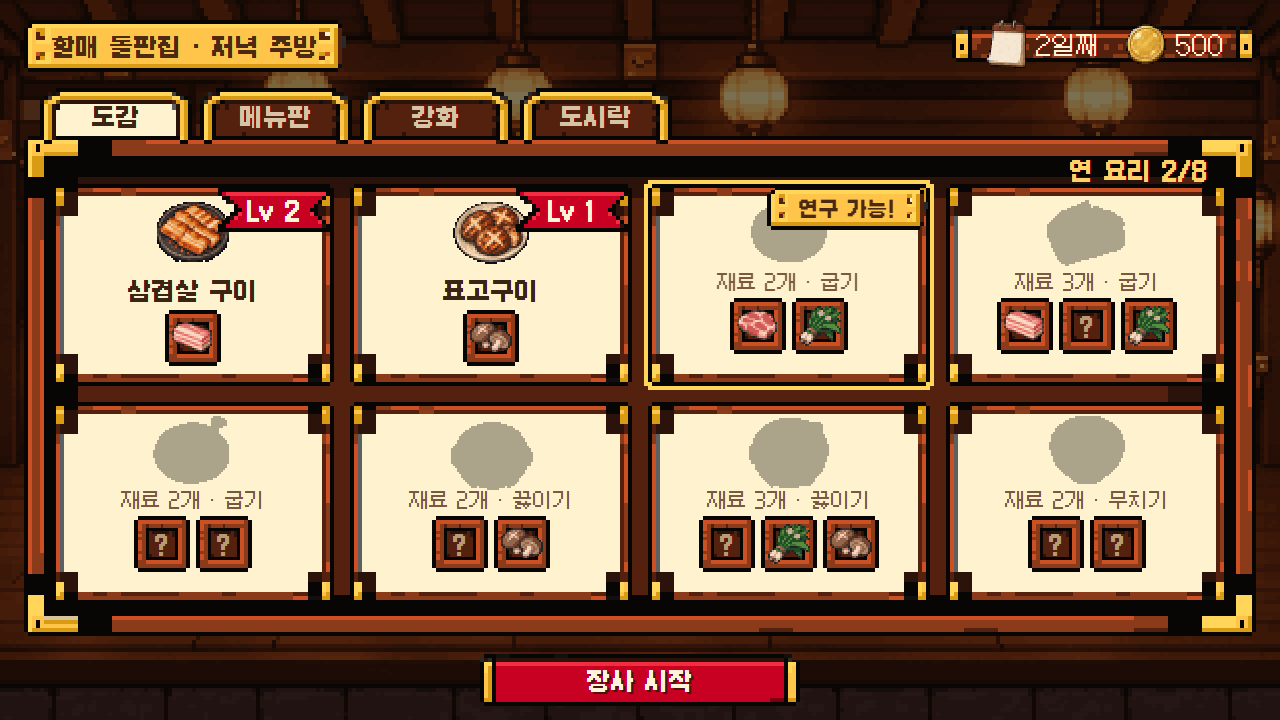
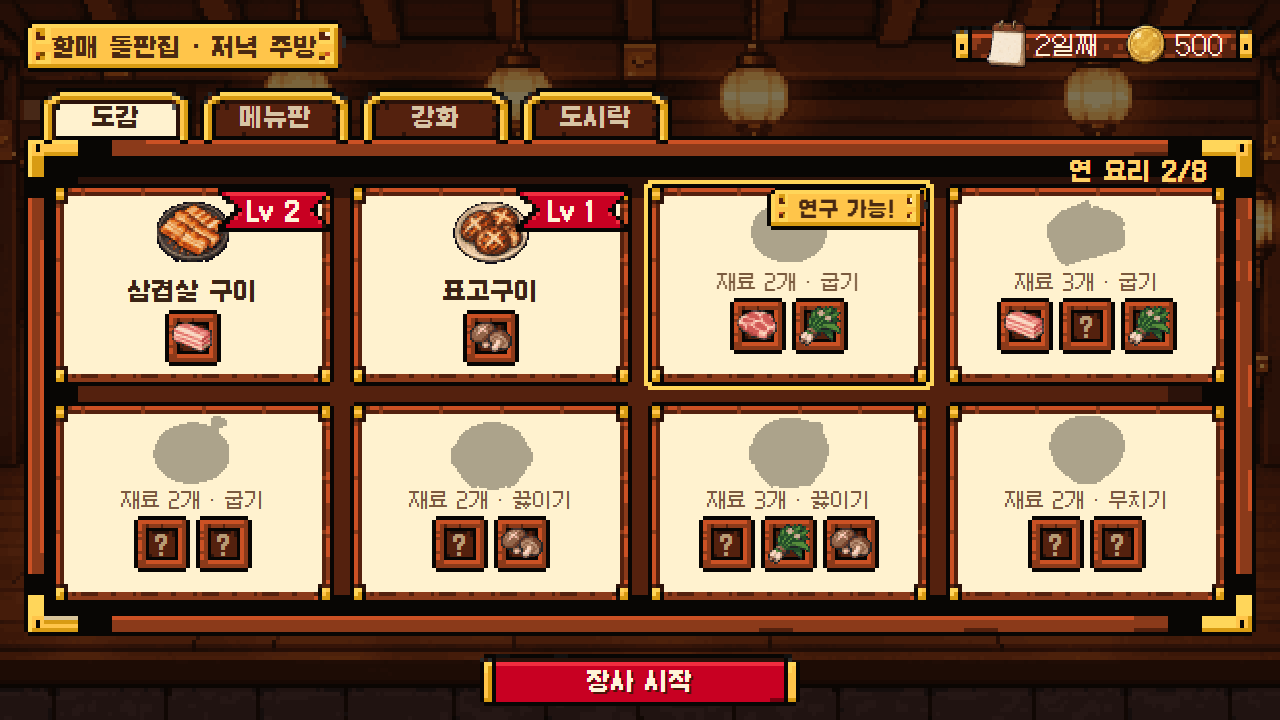
art: paper card without dark corner blocks or grey inner line; speech box without a tail

diff --git a/art-src/mockups/kitchen-cookbook-hint.html b/art-src/mockups/kitchen-cookbook-hint.html
@@ -37,7 +37,7 @@
   .count { position: absolute; right: 28px; top: -2px; color: var(--brass); font-weight: 700; }
   .grid { display: grid; grid-template-columns: repeat(4, 1fr); gap: 16px; margin-top: 20px; }
   .card { position: relative; height: 202px; display: flex; flex-direction: column; align-items: center; padding: 0 4px;
-    border-width: calc(3 * var(--k)); border-image: url("../ui-kit-pixel/out/card.png") 3 fill / calc(3 * var(--k)) stretch; }
+    border-width: calc(3 * var(--k)); border-image: url("../ui-kit-pixel/out/card.png") 5 fill / calc(5 * var(--k)) round; }
   .card > * { margin-top: -4px; }
   .dish { width: 84px; height: 80px; }
   .sil { filter: brightness(0); opacity: 0.32; }
@@ -64,14 +64,14 @@
   .ready { position: absolute; left: 50%; bottom: 14px; transform: translateX(-50%); width: 320px; height: 52px; font-size: 24px; }
   .lid { position: absolute; left: 6px; bottom: -6px; width: 240px; z-index: 3; }
   .say { position: absolute; left: 230px; bottom: 96px; width: 500px; min-height: 84px; padding: 6px 20px 2px 12px; z-index: 3;
-    border-width: calc(3 * var(--k)) calc(3 * var(--k)) calc(7 * var(--k)) calc(8 * var(--k));
-    border-image: url("../ui-kit-pixel/out/bubble.png") 3 3 7 8 fill / calc(3 * var(--k)) calc(3 * var(--k)) calc(7 * var(--k)) calc(8 * var(--k)) stretch; }
+    border-width: calc(3 * var(--k));
+    border-image: url("../ui-kit-pixel/out/bubble_plain.png") 3 fill / calc(3 * var(--k)) stretch; }
   .say span { display: block; margin: -6px 0 -8px; line-height: 1.6; }
 
   .shade { position: absolute; inset: 0; background: rgb(10 6 4 / 0.7); z-index: 5; }
   .win { position: absolute; left: 240px; top: 112px; width: 800px; height: 500px; z-index: 6; padding: 8px 16px;
     border-style: solid; border-color: transparent; border-width: calc(3 * var(--k));
-    border-image: url("../ui-kit-pixel/out/card.png") 3 fill / calc(3 * var(--k)) stretch; color: var(--ink); }
+    border-image: url("../ui-kit-pixel/out/card.png") 5 fill / calc(5 * var(--k)) round; color: var(--ink); }
   .win .x { position: absolute; right: -8px; top: -8px; width: 52px; height: 52px; display: flex; align-items: center; justify-content: center; font-weight: 700; color: #4a2a12;
     border-style: solid; border-color: transparent; border-width: calc(3 * var(--k)); border-image: url("../ui-kit-pixel/out/btn_small.png") 3 fill / calc(3 * var(--k)) stretch; }
   .win .x span { margin: -12px; }

diff --git a/art-src/mockups/kitchen-cookbook-research.html b/art-src/mockups/kitchen-cookbook-research.html
@@ -37,7 +37,7 @@
   .count { position: absolute; right: 28px; top: -2px; color: var(--brass); font-weight: 700; }
   .grid { display: grid; grid-template-columns: repeat(4, 1fr); gap: 16px; margin-top: 20px; }
   .card { position: relative; height: 202px; display: flex; flex-direction: column; align-items: center; padding: 0 4px;
-    border-width: calc(3 * var(--k)); border-image: url("../ui-kit-pixel/out/card.png") 3 fill / calc(3 * var(--k)) stretch; }
+    border-width: calc(3 * var(--k)); border-image: url("../ui-kit-pixel/out/card.png") 5 fill / calc(5 * var(--k)) round; }
   .card > * { margin-top: -4px; }
   .dish { width: 84px; height: 80px; }
   .sil { filter: brightness(0); opacity: 0.32; }
@@ -64,14 +64,14 @@
   .ready { position: absolute; left: 50%; bottom: 14px; transform: translateX(-50%); width: 320px; height: 52px; font-size: 24px; }
   .lid { position: absolute; left: 6px; bottom: -6px; width: 240px; z-index: 3; }
   .say { position: absolute; left: 230px; bottom: 96px; width: 500px; min-height: 84px; padding: 6px 20px 2px 12px; z-index: 3;
-    border-width: calc(3 * var(--k)) calc(3 * var(--k)) calc(7 * var(--k)) calc(8 * var(--k));
-    border-image: url("../ui-kit-pixel/out/bubble.png") 3 3 7 8 fill / calc(3 * var(--k)) calc(3 * var(--k)) calc(7 * var(--k)) calc(8 * var(--k)) stretch; }
+    border-width: calc(3 * var(--k));
+    border-image: url("../ui-kit-pixel/out/bubble_plain.png") 3 fill / calc(3 * var(--k)) stretch; }
   .say span { display: block; margin: -6px 0 -8px; line-height: 1.6; }
 
   .shade { position: absolute; inset: 0; background: rgb(10 6 4 / 0.7); z-index: 5; }
   .win { position: absolute; left: 240px; top: 112px; width: 800px; height: 500px; z-index: 6; padding: 8px 16px;
     border-style: solid; border-color: transparent; border-width: calc(3 * var(--k));
-    border-image: url("../ui-kit-pixel/out/card.png") 3 fill / calc(3 * var(--k)) stretch; color: var(--ink); }
+    border-image: url("../ui-kit-pixel/out/card.png") 5 fill / calc(5 * var(--k)) round; color: var(--ink); }
   .win .x { position: absolute; right: -8px; top: -8px; width: 52px; height: 52px; display: flex; align-items: center; justify-content: center; font-weight: 700; color: #4a2a12;
     border-style: solid; border-color: transparent; border-width: calc(3 * var(--k)); border-image: url("../ui-kit-pixel/out/btn_small.png") 3 fill / calc(3 * var(--k)) stretch; }
   .win .x span { margin: -12px; }

diff --git a/art-src/mockups/kit.css b/art-src/mockups/kit.css
@@ -33,7 +33,7 @@ html, body { margin: 0; background: #0b0b12; }
   border-width: calc(5 * var(--k)); border-image: url("../ui-kit-pixel/out/panel.png") 5 fill / calc(5 * var(--k)) stretch; color: var(--cream); }
 .count { position: absolute; right: 28px; top: -2px; color: var(--brass); font-weight: 700; }
 
-.card { position: relative; border-width: calc(3 * var(--k)); border-image: url("../ui-kit-pixel/out/card.png") 3 fill / calc(3 * var(--k)) stretch; color: var(--ink); }
+.card { position: relative; border-width: calc(3 * var(--k)); border-image: url("../ui-kit-pixel/out/card.png") 5 fill / calc(5 * var(--k)) round; color: var(--ink); }
 .dish { width: 84px; height: 80px; }
 .sil { filter: brightness(0); opacity: 0.32; }
 .name { font-weight: 700; }
@@ -62,6 +62,6 @@ html, body { margin: 0; background: #0b0b12; }
   border-image: url("../ui-kit-pixel/out/gauge_full.png") 2 3 fill / calc(2 * var(--k)) calc(3 * var(--k)) stretch; }
 .lid { position: absolute; left: 6px; bottom: -6px; width: 240px; z-index: 3; }
 .say { position: absolute; left: 230px; bottom: 96px; width: 420px; min-height: 80px; padding: 4px 8px; z-index: 3; color: var(--ink);
-  border-width: calc(3 * var(--k)) calc(3 * var(--k)) calc(7 * var(--k)) calc(8 * var(--k));
-  border-image: url("../ui-kit-pixel/out/bubble.png") 3 3 7 8 fill / calc(3 * var(--k)) calc(3 * var(--k)) calc(7 * var(--k)) calc(8 * var(--k)) stretch; }
+  border-width: calc(3 * var(--k));
+  border-image: url("../ui-kit-pixel/out/bubble_plain.png") 3 fill / calc(3 * var(--k)) stretch; }
 .say span { display: block; margin: -8px -16px -12px -20px; line-height: 1.5; }

diff --git a/art-src/mockups/kitchen-cookbook.html b/art-src/mockups/kitchen-cookbook.html
@@ -37,7 +37,7 @@
   .count { position: absolute; right: 28px; top: -2px; color: var(--brass); font-weight: 700; }
   .grid { display: grid; grid-template-columns: repeat(4, 1fr); gap: 16px; margin-top: 20px; }
   .card { position: relative; height: 202px; display: flex; flex-direction: column; align-items: center; padding: 0 4px;
-    border-width: calc(3 * var(--k)); border-image: url("../ui-kit-pixel/out/card.png") 3 fill / calc(3 * var(--k)) stretch; }
+    border-width: calc(3 * var(--k)); border-image: url("../ui-kit-pixel/out/card.png") 5 fill / calc(5 * var(--k)) round; }
   .card > * { margin-top: -4px; }
   .dish { width: 84px; height: 80px; }
   .sil { filter: brightness(0); opacity: 0.32; }
@@ -64,8 +64,8 @@
   .ready { position: absolute; left: 50%; bottom: 14px; transform: translateX(-50%); width: 320px; height: 52px; font-size: 24px; }
   .lid { position: absolute; left: 6px; bottom: -6px; width: 240px; z-index: 3; }
   .say { position: absolute; left: 230px; bottom: 96px; width: 500px; min-height: 84px; padding: 6px 20px 2px 12px; z-index: 3;
-    border-width: calc(3 * var(--k)) calc(3 * var(--k)) calc(7 * var(--k)) calc(8 * var(--k));
-    border-image: url("../ui-kit-pixel/out/bubble.png") 3 3 7 8 fill / calc(3 * var(--k)) calc(3 * var(--k)) calc(7 * var(--k)) calc(8 * var(--k)) stretch; }
+    border-width: calc(3 * var(--k));
+    border-image: url("../ui-kit-pixel/out/bubble_plain.png") 3 fill / calc(3 * var(--k)) stretch; }
   .say span { display: block; margin: -6px 0 -8px; line-height: 1.6; }
 </style>
 </head>

diff --git a/art-src/ui-kit-pixel/cut.py b/art-src/ui-kit-pixel/cut.py
@@ -26,8 +26,9 @@ NAMES = [
 ]
 
 # Colours swapped inside one piece, nothing else touched (user, 2026-10-15: the selected tab showed a grey
-# line under its brass rim; it becomes the same dark brown as the tab's other inner edges)
-RECOLOUR = {"tab_on": {(0x9D, 0xA0, 0xA3): (0x2B, 0x12, 0x0A)}}
+# line under its brass rim; it becomes the same dark brown as the tab's other inner edges; the paper card
+# has the same kind of grey line down its left inside edge)
+RECOLOUR = {"tab_on": {(0x9D, 0xA0, 0xA3): (0x2B, 0x12, 0x0A)}, "card": {(0x5D, 0x60, 0x63): (0x54, 0x21, 0x0E)}}
 
 
 def is_key(p) -> bool:
@@ -159,6 +160,15 @@ def main():
         piece.save(OUT / f"{name}.png")
         cut.append((name, piece))
         print(name, piece.size, len(piece.getcolors(1 << 16) or []), "colours")
+    # a speech box with no tail (user, 2026-10-15: the tail pointed the wrong way): the bubble's top half and
+    # the same half flipped upside down, so its bottom corners match its top ones (copied, not drawn)
+    bubble = dict(cut)["bubble"]
+    top = bubble.crop((0, 0, bubble.width, 9))
+    plain = Image.new("RGBA", (bubble.width, 18), (0, 0, 0, 0))
+    plain.alpha_composite(top, (0, 0))
+    plain.alpha_composite(top.transpose(Image.Transpose.FLIP_TOP_BOTTOM), (0, 9))
+    plain.save(OUT / "bubble_plain.png")
+    print("bubble_plain", plain.size)
     print("offset", off, "art size", small.size, "colours", len(small.convert("RGB").getcolors(1 << 16)))
     sheet = Image.new("RGBA", (small.width * 4, small.height * 4), (40, 30, 26, 255))
     sheet.alpha_composite(small.resize((small.width * 4, small.height * 4), Image.NEAREST))
